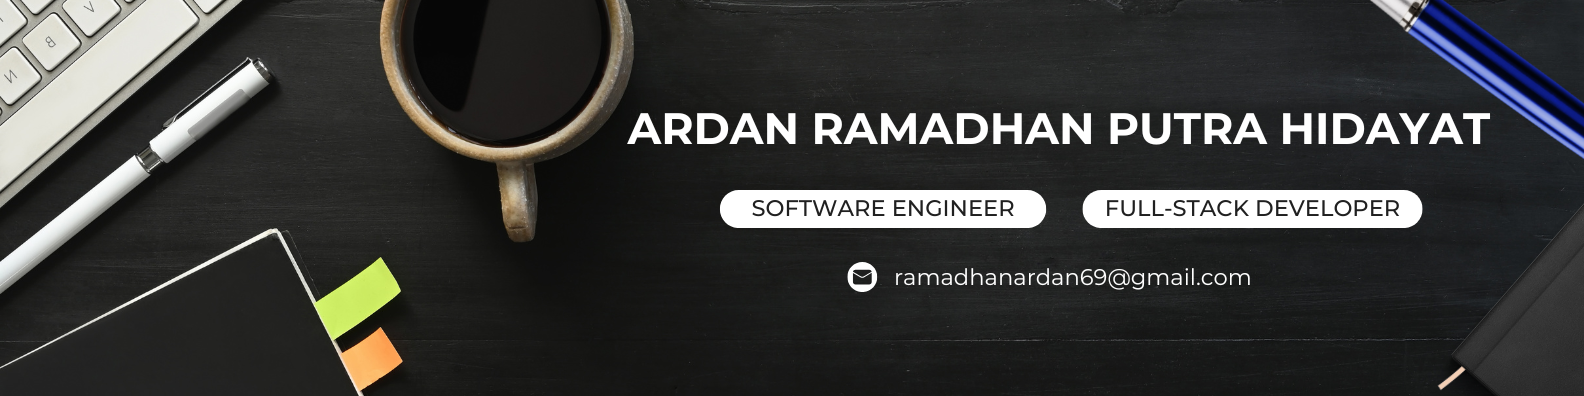
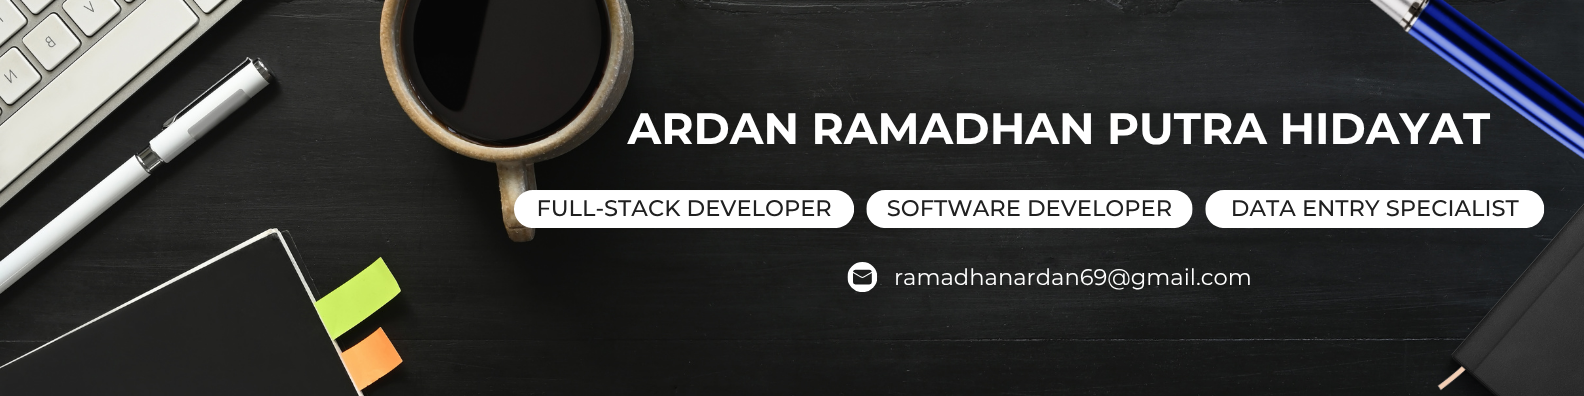
update code

Changed region(s): [[0.3093, 0.4545, 0.9899, 0.5758], [0.6806, 0.697, 0.7115, 0.7273]]

diff --git a/README.md b/README.md
@@ -7,28 +7,38 @@ alt="Waving hand animated gif"
 height="45" width="45"/></h1></h1>
 
 <p align="center">
-  <img src="https://readme-typing-svg.herokuapp.com/?lines=Software%20Engineer;Full-Stack%20Developer;React.js%20%7C%20Next.js%20%7C%20Laravel;Creating%20Scalable%20Digital%20Solutions;&font=Pacifico&center=true&width=700&height=60&color=58a6ff&vCenter=true&size=35" />
+  <img src="https://readme-typing-svg.herokuapp.com/?lines=Full-Stack%20Developer;Software%20Developer;Data%20Entry%20Specialist;React.js%20%7C%20Next.js%20%7C%20Vue.js%20%7C%20Laravel;Creating%20Scalable%20Digital%20Solutions;&font=Pacifico&center=true&width=700&height=60&color=58a6ff&vCenter=true&size=35" />
 </p>
 
 ---
 
 ### About Me
 
+### About Me
+
 <div align="center">
+
   <p>
-    I am a Software Engineer and Full-Stack Developer student at 
-    <b>SMK Negeri 1 Purwosari</b>, passionate about designing and developing 
-    modern web applications with scalable architecture and seamless user experiences.
-    I work with technologies such as Laravel, Next.js, React.js, Tailwind CSS, 
-    and REST API to build reliable digital solutions.
+    I am a Full-Stack Web Developer and Software Developer student at
+    <b>SMK Negeri 1 Purwosari</b>, passionate about building modern,
+    responsive, and scalable web applications.
+    <br>
+    I work with technologies such as Laravel, Next.js, React.js,
+    Vue.js, Tailwind CSS, and REST API to develop reliable digital solutions.
+    <br>
+    I also have an interest in Data Entry, with a strong focus on
+    accuracy, data organization, and attention to detail.
   </p>
 
   <strong>
-    Transforming ideas into impactful software through clean code, continuous 
-    improvement, and innovative problem-solving.
+    Turning ideas into practical digital solutions through clean code,
+    continuous learning, accuracy, and problem-solving.
   </strong>
+
   <br>
+
   <span style="letter-spacing:3px;">━━━━━━━━━━ ✦ ━━━━━━━━━━</span>
+
 </div>
 
 ##
